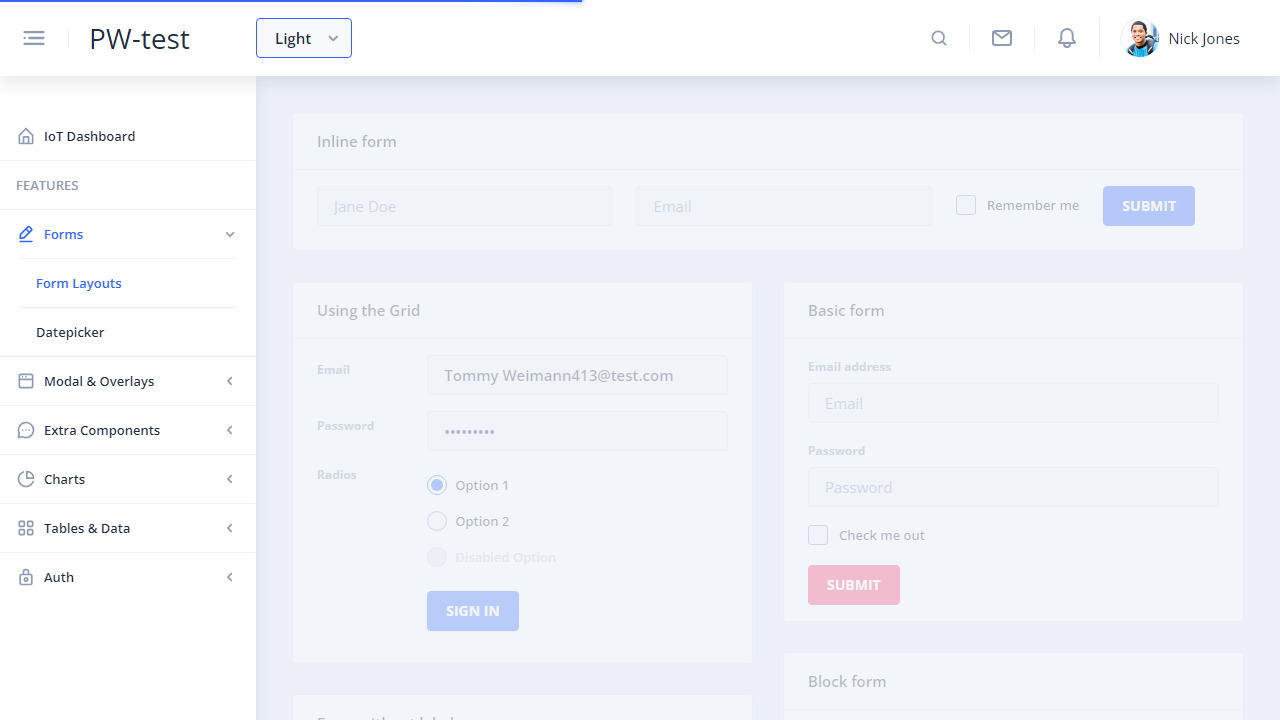
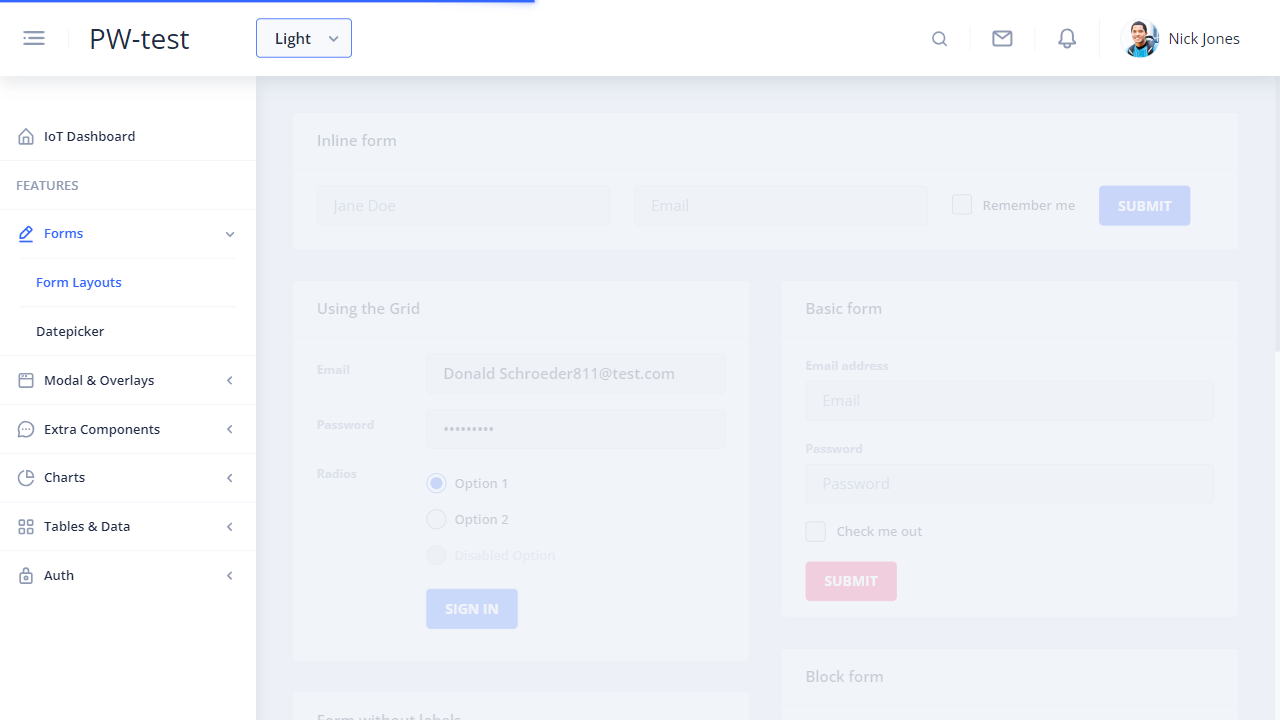
environment variables

diff --git a/playwright.config.ts b/playwright.config.ts
@@ -1,15 +1,15 @@
 import { defineConfig, devices } from '@playwright/test';
-
+import type {TestOptions} from './test-options';
 /**
  * Read environment variables from file.
  * https://github.com/motdotla/dotenv
  */
-// require('dotenv').config();
+ require('dotenv').config();
 
 /**
  * See https://playwright.dev/docs/test-configuration.
  */
-export default defineConfig({
+export default defineConfig<TestOptions>({
   //timeout:10000,
   testDir: './tests',
   /* Run tests in files in parallel */
@@ -27,13 +27,21 @@ export default defineConfig({
     /* Base URL to use in actions like `await page.goto('/')`. */
      baseURL: 'http://localhost:4200/',
 
+     // we can use trenary condition to re-modify the URLs in the base URL SECTION
+     /*baseURL: process.env.DEV === '1' ? 'http://localhost:4200/'
+            : process.env.STAGE === '1'? 'http://localhost:4201/'
+            :'http://localhost:4201/',*/
+
+     globalsQaURL:"https://www.globalsqa.com/demo-site/draganddrop/#google_vignette",
+     //globalsQaURL: 'https://www.globalsqa.com/demo-site/draganddrop/#google_vignette',
+
     /* Collect trace when retrying the failed test. See https://playwright.dev/docs/trace-viewer */
     trace: 'on-first-retry',
-    //video: 'retain-on-failure' will save video only if test fails
-    video:{
-      mode:'retain-on-failure',
-      size:{width:1920,height:1000}
-    }
+    video: 'retain-on-failure' //will save video only if test fails
+    // video:{
+    //   mode:'retain-on-failure',
+    //   size:{width:1920,height:1000}
+    // }
   },
 
   /* Configure projects for major browsers */
@@ -42,6 +50,20 @@ export default defineConfig({
       name: 'chromium',
       use: { ...devices['Desktop Chrome'] },
       //fullyParallel:true fully pararel can be added per project but we will need to remove the default fully pararel.
+    },
+
+    {
+      name: 'dev',
+      use: { ...devices['Desktop Chrome'],
+        baseURL: 'http://localhost:4201/' // we can use different urls based on the project we run the tests.
+       },
+    },
+
+    {
+      name: 'stage',
+      use: { ...devices['Desktop Chrome'],
+        baseURL:'http://localhost:4202/'
+       },
     },
 
     // {

diff --git a/tests/autowaiting.spec.ts b/tests/autowaiting.spec.ts
@@ -1,12 +1,12 @@
 import {test,expect} from '@playwright/test'
 
 test.beforeEach(async ({page}) => {
-    await page.goto('http://uitestingplayground.com/ajax')
+    await page.goto(process.env.URL)
     await page.getByText('Button Triggering AJAX Request').click()
     
   })
 
-test.skip('auto waiting in playwright', async({page}) => {
+test('auto waiting in playwright', async({page}) => {
     const successBtn = page.locator('.bg-success')
     // //await successBtn.click()
     // //const text= await successBtn.textContent()

diff --git a/tests/dragAndDropWithIframes.spec.ts b/tests/dragAndDropWithIframes.spec.ts
@@ -1,8 +1,9 @@
-import{test,expect} from '@playwright/test'
+import{expect} from '@playwright/test'
+import {test} from '../test-options'
 
 
-test('drag and drop with Iframe', async({page}) => {
-    await page.goto('https://www.globalsqa.com/demo-site/draganddrop/#google_vignette')
+test('drag and drop with Iframe', async({page, globalsQaURL}) => {
+    await page.goto(globalsQaURL)
 
     //Move to Iframe
     const frame = page.frameLocator('[rel-title="Photo Manager"] iframe')

diff --git a/test-options.ts b/test-options.ts
@@ -1,0 +1,9 @@
+import {test as base} from '@playwright/test'
+
+export type TestOptions ={
+    globalsQaURL:string
+}
+
+export const test = base.extend<TestOptions>({
+    globalsQaURL: ['', {option:true}]
+})

diff --git a/tests/useOfPageObjects.spec.ts b/tests/useOfPageObjects.spec.ts
@@ -5,7 +5,7 @@ import {faker} from '@faker-js/faker'
 
 
 test.beforeEach(async({page})=>{
-    await page.goto('http://localhost:4200')
+    await page.goto('/')
     
 })
 
